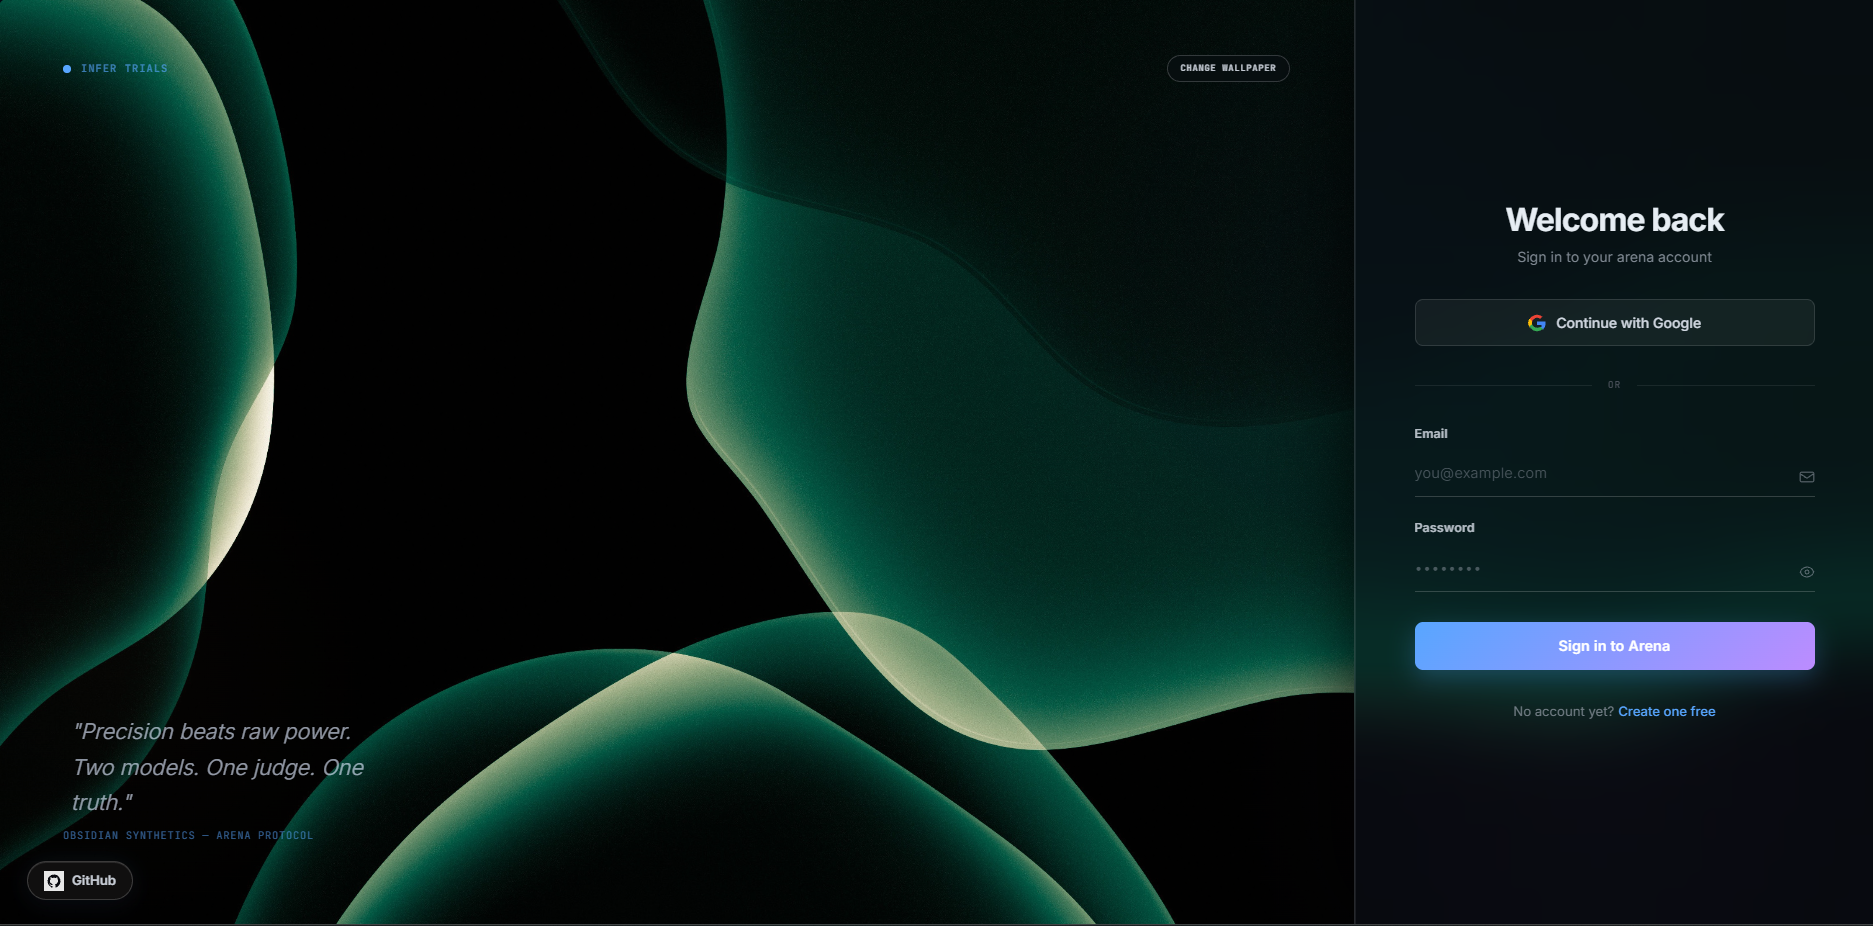
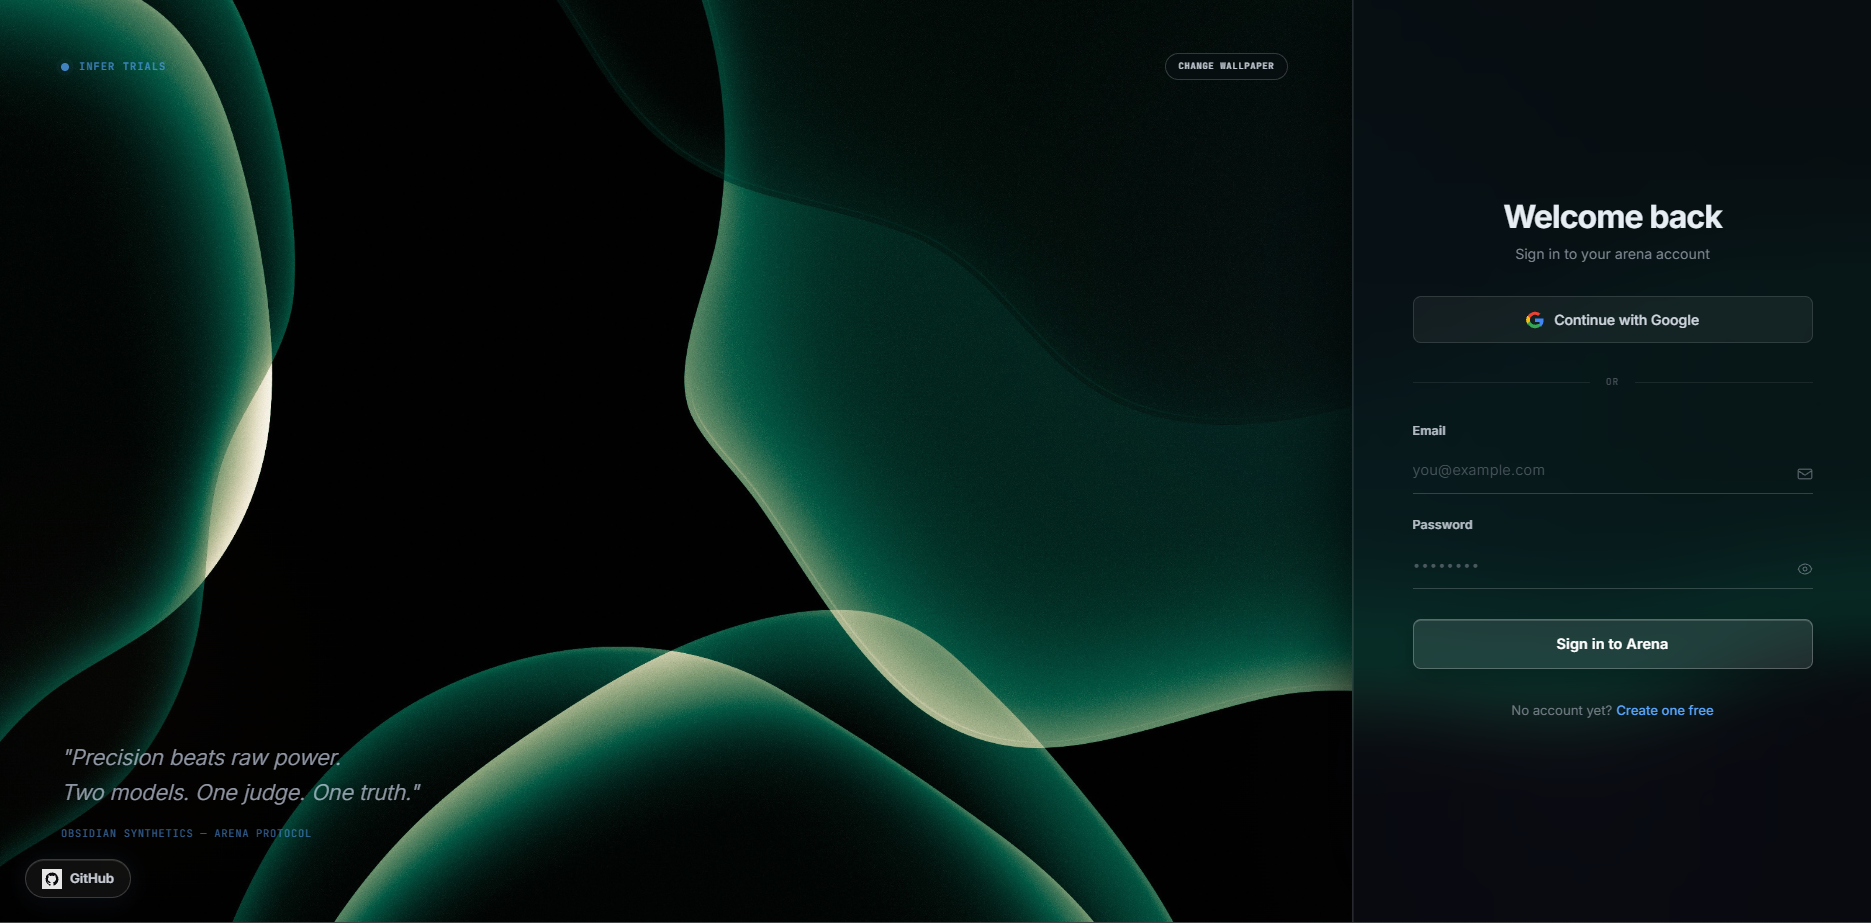
style(auth): update button styles for glassmorphism
- Changed button background to a semi-transparent color
- Updated border to a solid style with backdrop filter
- Enhanced hover effects with new background and shadow

diff --git a/Frontend/src/features/auth/styles/auth-glass.scss b/Frontend/src/features/auth/styles/auth-glass.scss
@@ -424,14 +424,16 @@
       width: 100%;
       padding: 0.82rem 1.5rem;
       border-radius: 8px;
-      background: linear-gradient(135deg, #58a6ff 0%, #bc8cff 100%);
-      border: none;
+      background: rgba(255, 255, 255, 0.1);
+      border: 1px solid rgba(255, 255, 255, 0.24);
+      backdrop-filter: blur(14px) saturate(140%);
+      -webkit-backdrop-filter: blur(14px) saturate(140%);
       color: #fff;
       font-size: 0.9rem;
       font-weight: 600;
       cursor: pointer;
-      transition: transform 0.18s ease, box-shadow 0.22s ease, opacity 0.18s ease;
-      box-shadow: 0 8px 24px rgba(88, 166, 255, 0.25);
+      transition: transform 0.18s ease, background 0.22s ease, border-color 0.22s ease, box-shadow 0.22s ease, opacity 0.18s ease;
+      box-shadow: 0 8px 24px rgba(0, 0, 0, 0.22), inset 0 1px 0 rgba(255, 255, 255, 0.16);
       letter-spacing: 0.01em;
       margin-top: 0.5rem;
 
@@ -450,7 +452,9 @@
 
       &:hover {
         transform: translateY(-1px);
-        box-shadow: 0 14px 32px rgba(88, 166, 255, 0.38);
+        background: rgba(255, 255, 255, 0.16);
+        border-color: rgba(255, 255, 255, 0.38);
+        box-shadow: 0 14px 32px rgba(0, 0, 0, 0.28), inset 0 1px 0 rgba(255, 255, 255, 0.22);
 
         &::after { left: 130%; }
       }
